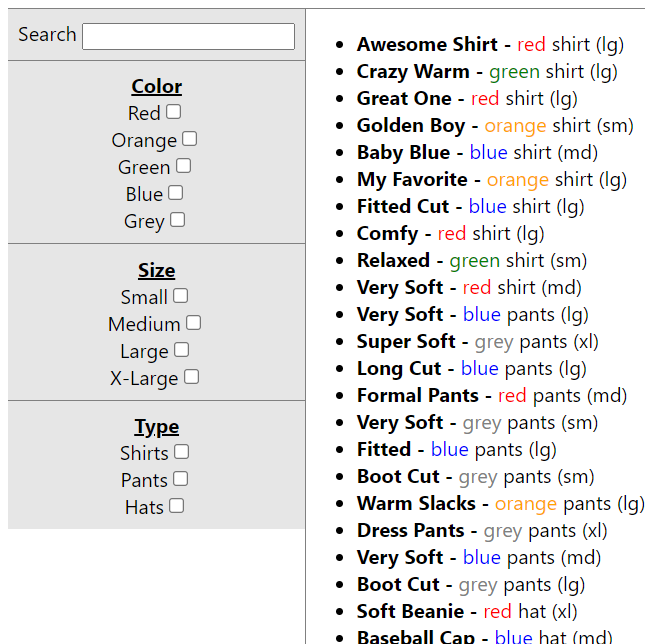
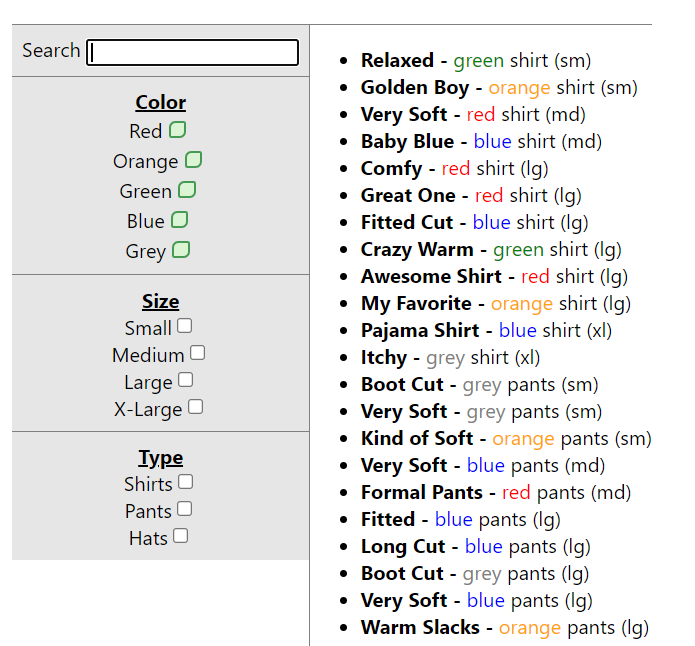
updated readme

Changed region(s): [[0.0, 0.0, 0.9567, 1.0]]

diff --git a/README.md b/README.md
@@ -2,6 +2,8 @@
 ### Overview
 The purpose of this project was to create a React component that could filter large arrays of data objects by their various attributes. It needed to be easy to modify by adding and removing filters.
 
+Secondary goal was to make the checkboxes easily customizable since this is lacking in standard html/css pairing.
+
 ![](my-app/readMe-images/none-filter.PNG)
 
 This is a standard react app, so instructions for running it are at the bottom.
@@ -28,13 +30,36 @@ Additional filters can easily be added by:
 If done correctly, the newly filters will work to update the results show by the `data` component.
 The data component simply accepts the list on each update and displays the results.
 
+# How to Customize the Checkboxes
+For reference, the top section checkboxes are styled, and the bottom ones are left as default.
+The main difference is that for styling, the checkbox input is set to hidden and wrapped in a div with the id 'fake-{this-box-value}'
+
+
+      // Default Checkbox
+      <div className='filter-option'>
+		   <label>MyAttribute</label>
+		   <input type='checkbox' value='myattribute' onChange={e=>setMyFilter(updateFilter(e.target.value, myFilter))}></input>
+	   </div>
+
+      // Custom Checkbox
+      <div className='filter-option'>
+			<label>MyAttribute</label>
+			<div id="fake-myattribute" className='fake-input' onClick={e=>setMyFilter(updateFilter(e.target.firstChild.value, myFilter))}>
+				<input type='checkbox' value='myattribute' hidden></input>
+			</div>
+		</div>
+
+The classes for customization are in their own section at the bottom of the css file.
+
+
 ## About
 I built this project to suppliment any online shopping applications that may need to filter lots of search results. My goal was to make it as simple as possible to impliment and add on to.
 
 ### Future plans:
- -  Incorporate some more interesting filters for price like a slide bar.
- -  Possible re-organization to component structure
- -  Build out an 'Apply Filters' button since large amounts of data or a high number of filters may be too heavy to allow for the auto re-renders
+ - [x] Add custom styling for the checkboxes
+ - [ ] Incorporate some more interesting filters for price like a slide bar.
+ - [ ] Possible re-organization to component structure
+ - [ ] Build out an 'Apply Filters' button since large amounts of data or a high number of filters may be too heavy to allow for the auto re-renders
 
 
 ---
